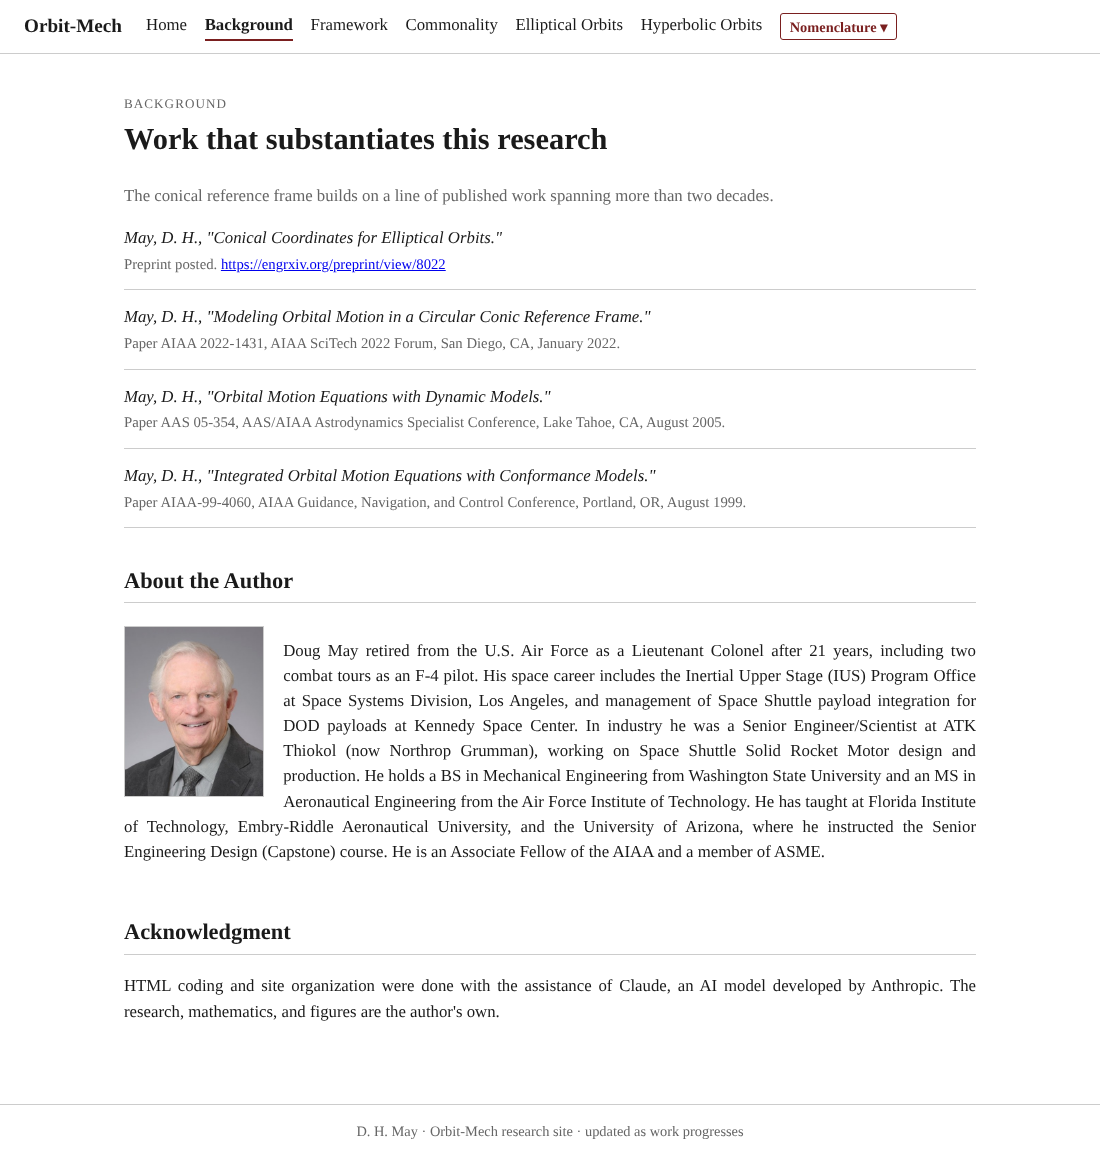
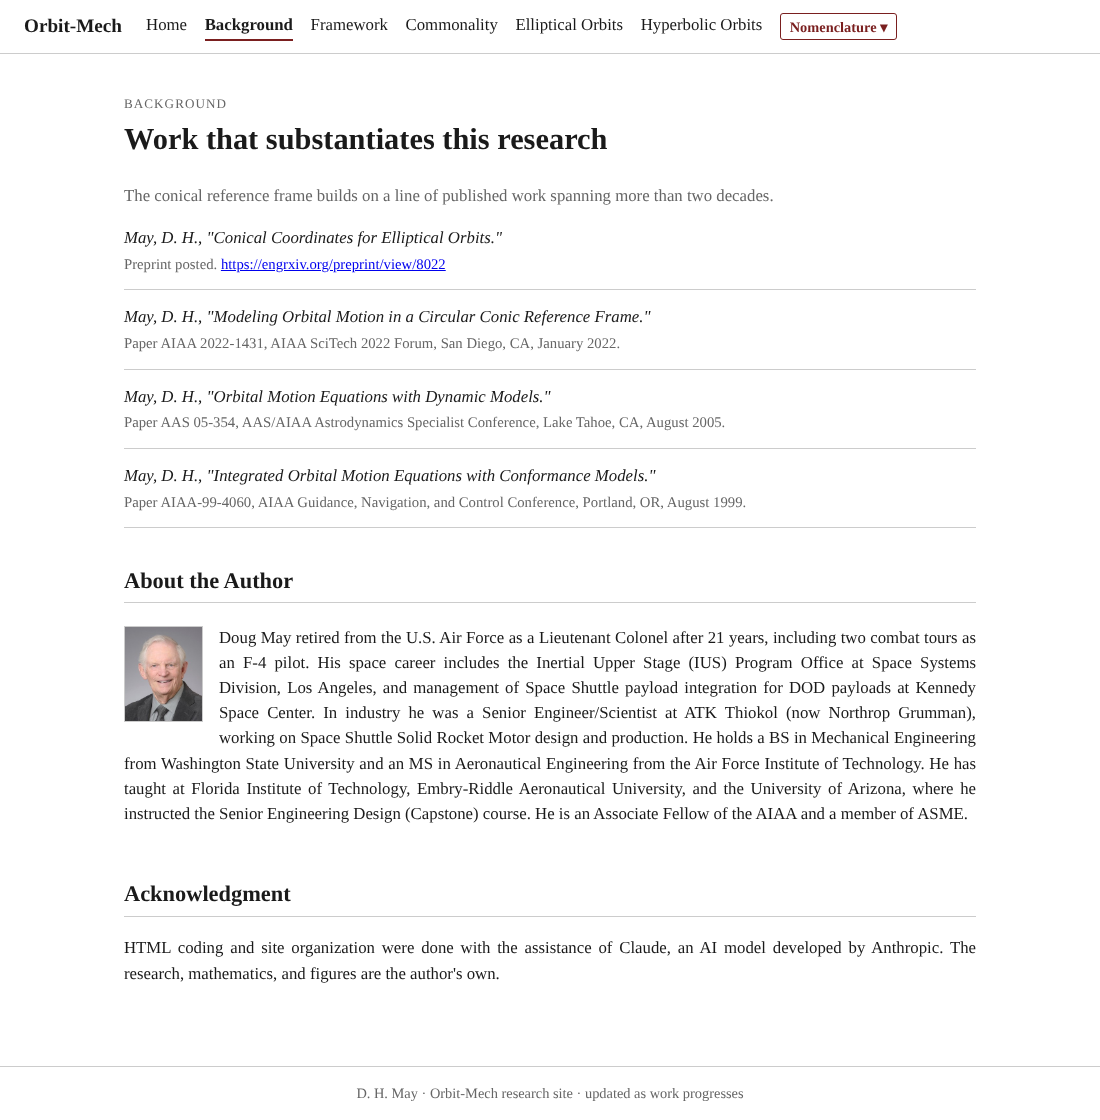
Add files via upload
10-26-2026 2nd Background Update

diff --git a/style.css b/style.css
@@ -235,9 +235,9 @@ footer {
 
 .author-photo {
   float: left;
-  width: 140px;
-  height: auto;
-  margin: 0.3rem 1.2rem 0.5rem 0;
+  height: 96px;   /* about one inch on screen */
+  width: auto;
+  margin: 0.25rem 1rem 0.3rem 0;
   border: 1px solid var(--rule-color);
 }
 
